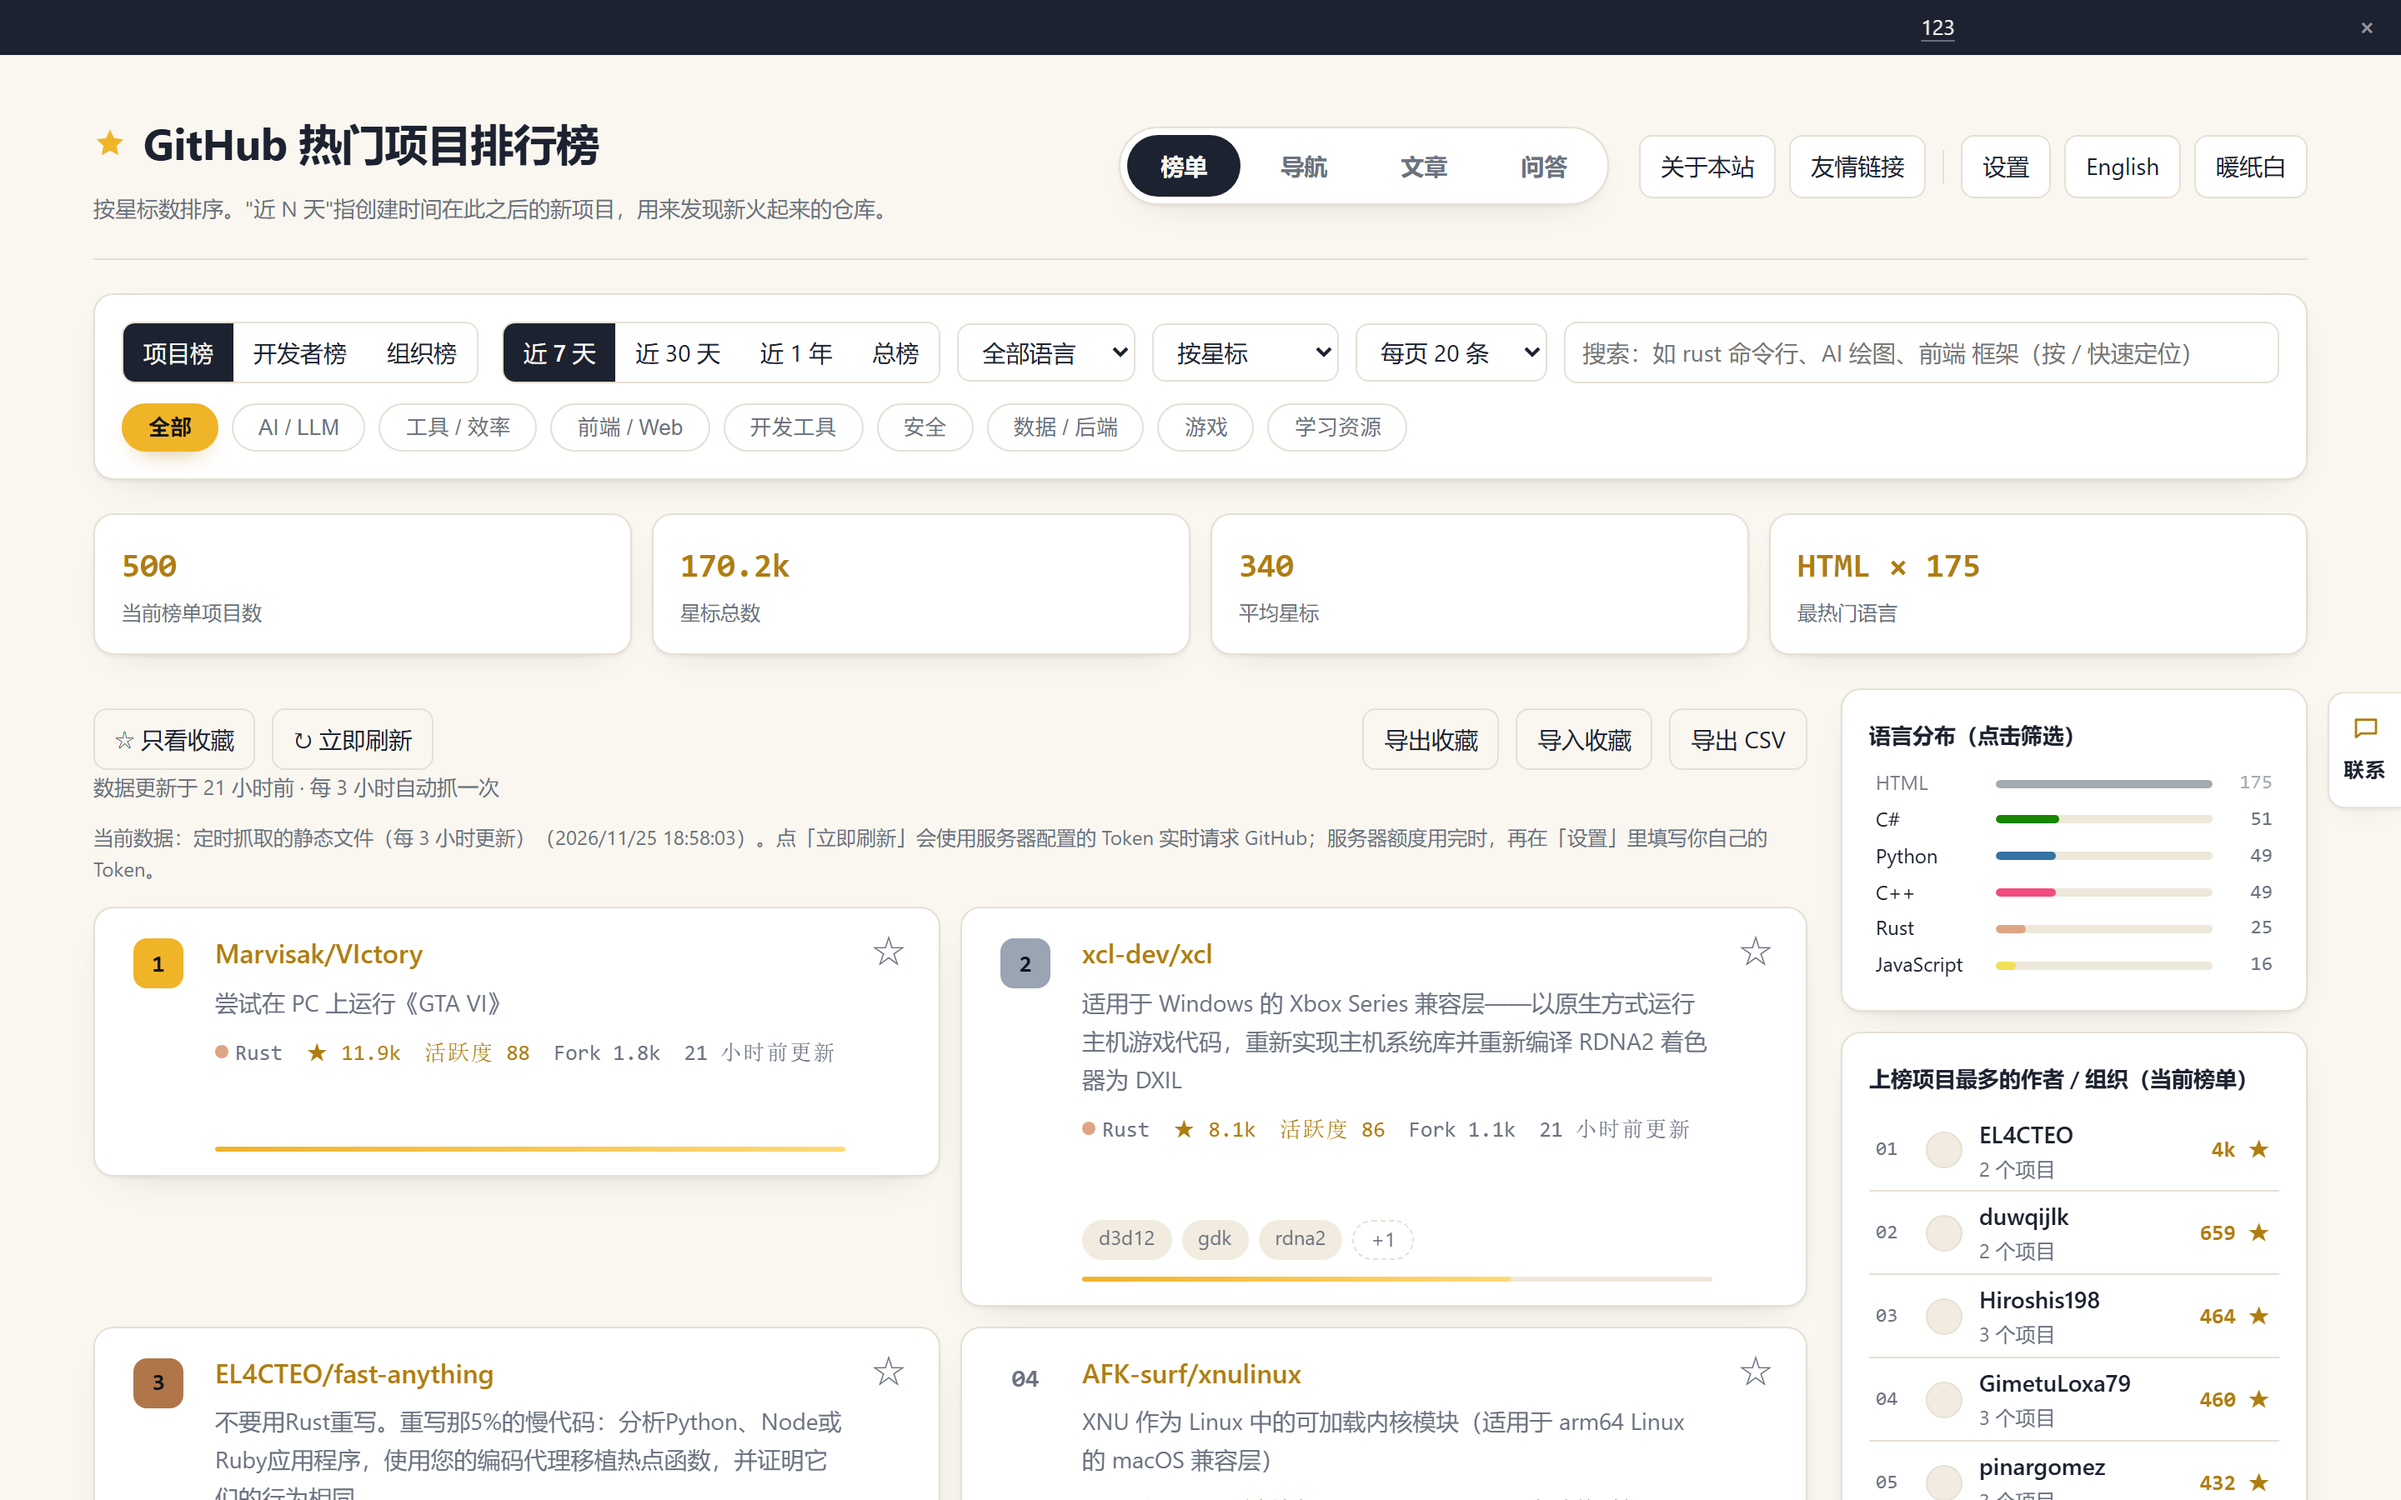
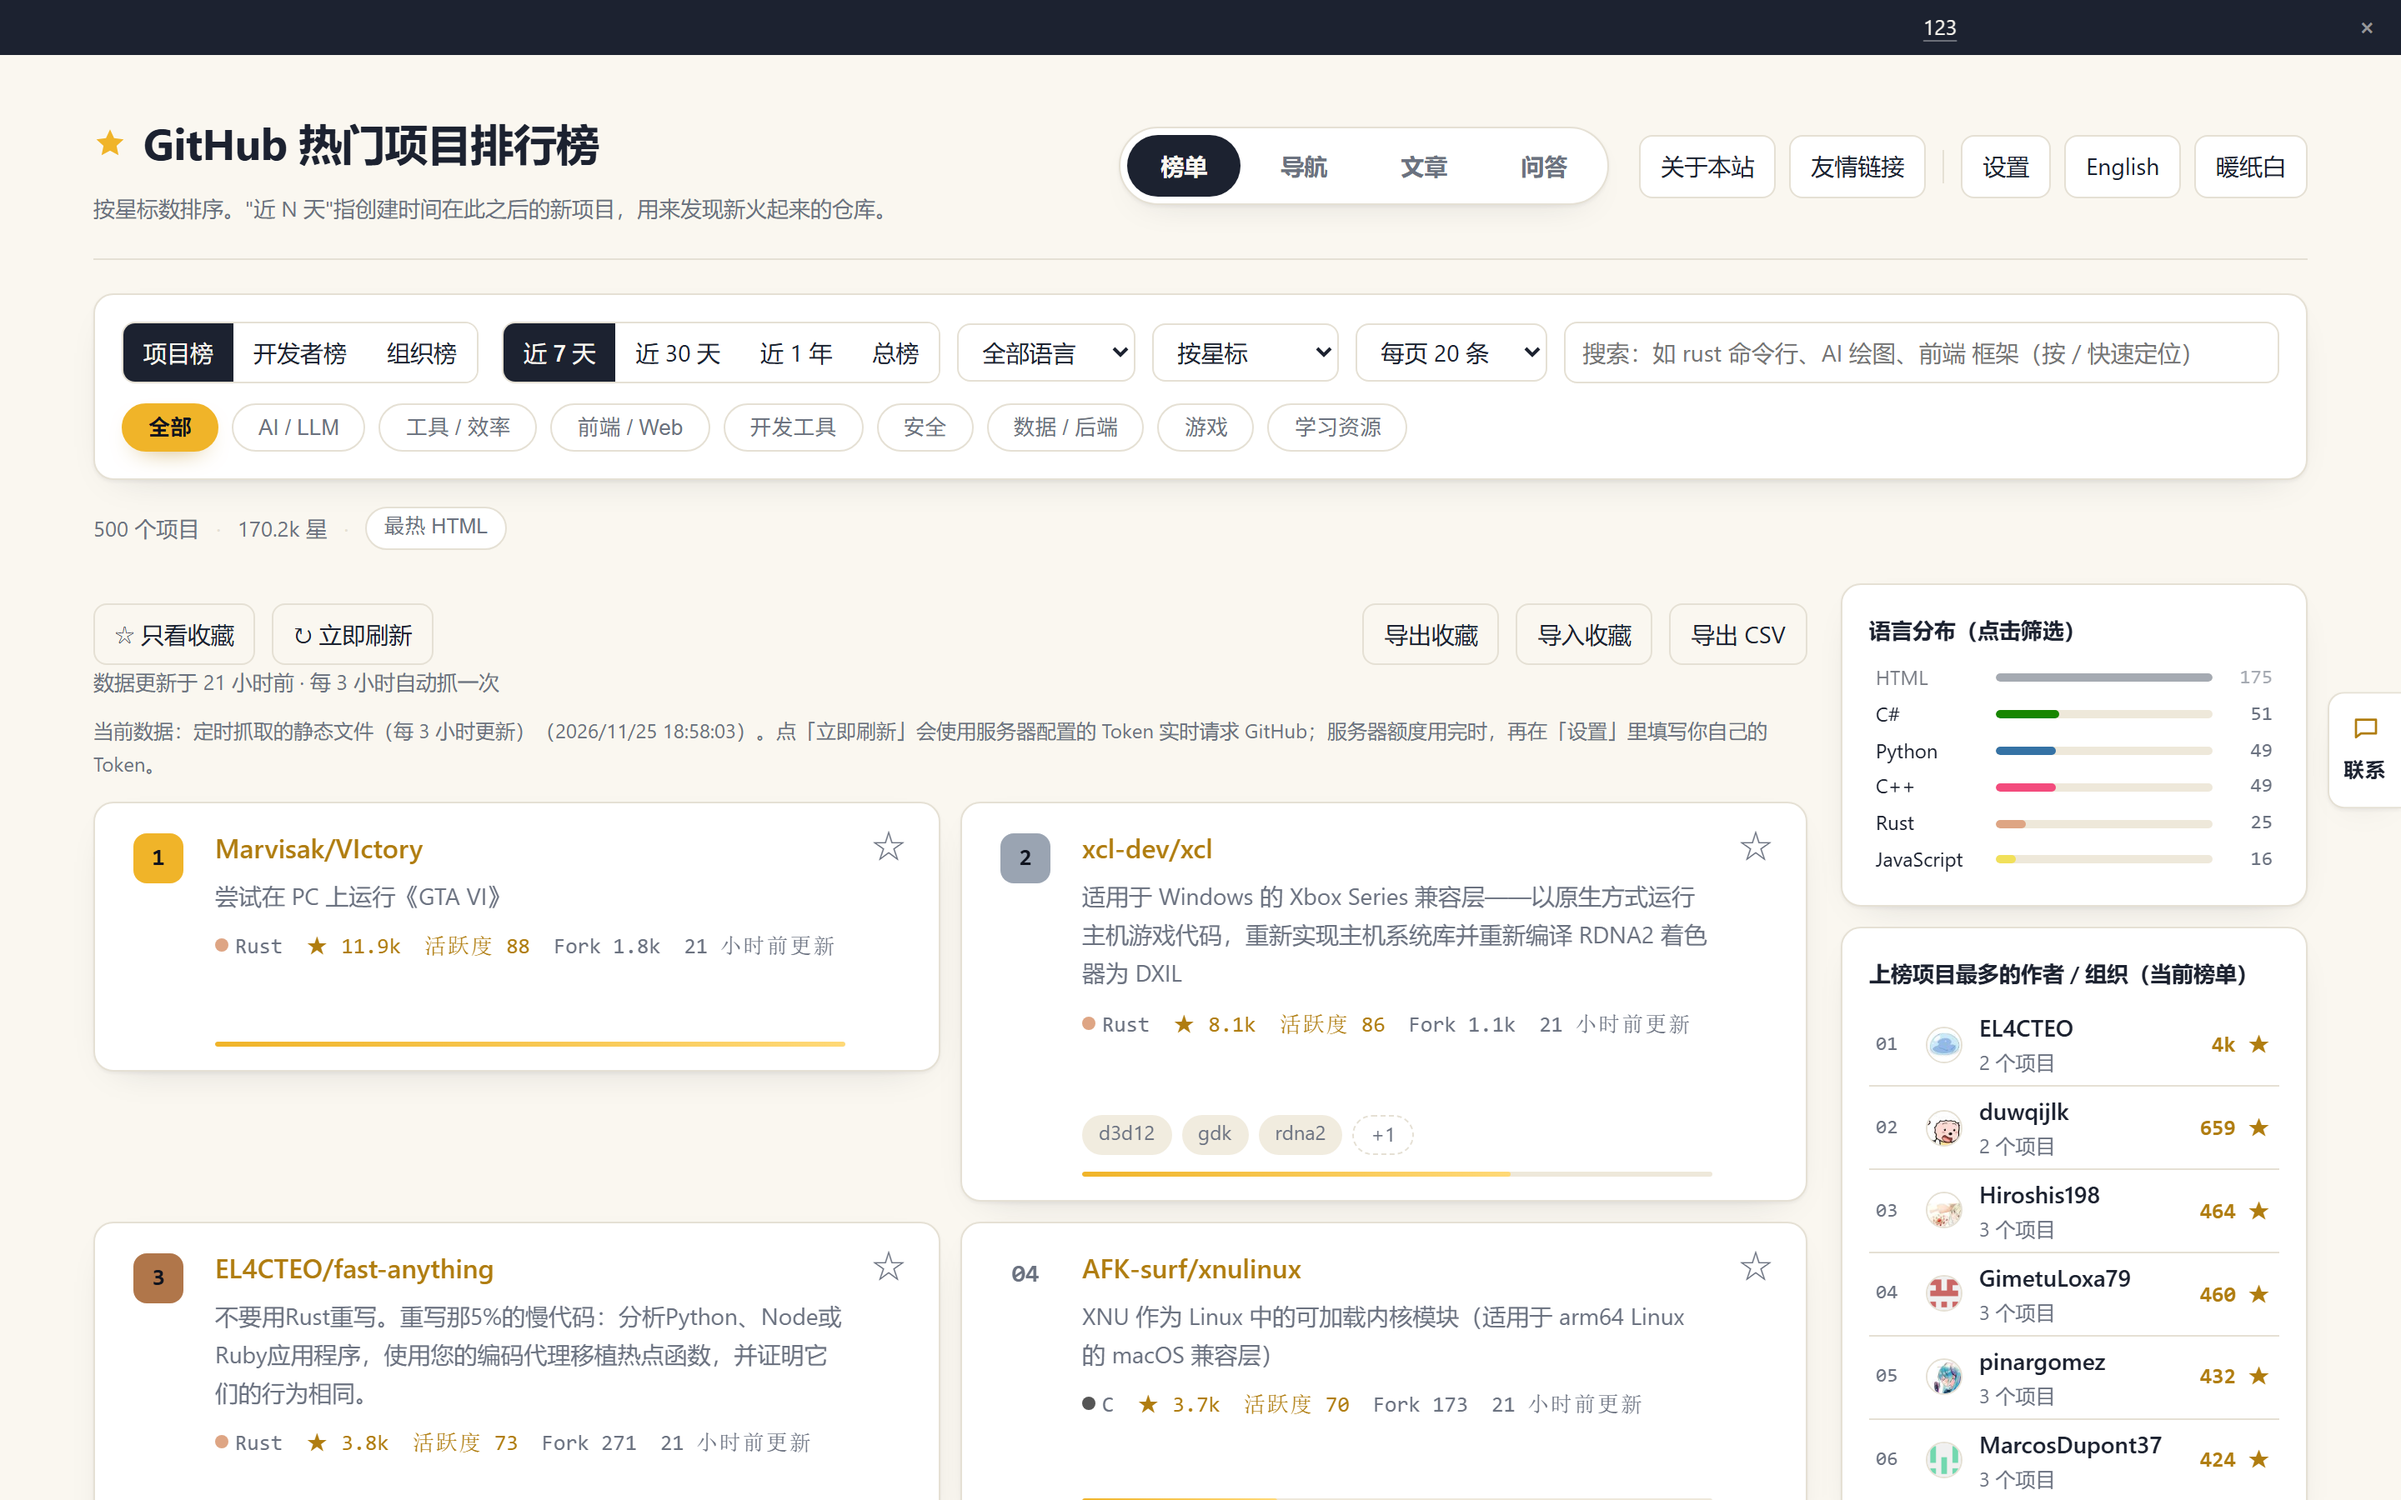
feat: 四张统计卡改一行摘要（手机省 160px）+ 最热语言可点击筛选; 新增 check-stats-slim 门禁; v166

diff --git a/js/bundle.js b/js/bundle.js
@@ -573,13 +573,26 @@ function renderStats(list) {
   list.forEach(r => { if (r.lang) langCount[r.lang] = (langCount[r.lang] || 0) + 1; });
   const topLang = Object.entries(langCount).sort((a, b) => b[1] - a[1])[0];
   box.hidden = false;
-  const mk = (v, label) => { const d = el('div', 'stat'); d.append(el('b', null, v), el('span', null, label)); return d; };
-  box.replaceChildren(
-    mk(String(list.length), '当前榜单项目数'),
-    mk(fmt(totalStars), '星标总数'),
-    mk(fmt(Math.round(totalStars / list.length)), '平均星标'),
-    mk(topLang ? topLang[0] + ' × ' + topLang[1] : '—', '最热门语言')
-  );
+  box.className = 'stats slim';
+  const parts = [el('span', null, list.length + ' 个项目'), el('span', 'statsep', '·'), el('span', null, fmt(totalStars) + ' 星')];
+  if (topLang) {
+    parts.push(el('span', 'statsep', '·'));
+    const btn = el('button', 'stat-lang', '最热 ' + topLang[0]);
+    btn.type = 'button';
+    btn.title = '只看 ' + topLang[0] + '（共 ' + topLang[1] + ' 个）';
+    btn.onclick = () => {
+      const sel = $('lang');
+      if (!sel) return;
+      if (!Array.prototype.some.call(sel.options, (o) => o.value === topLang[0])) {
+        sel.append(new Option(topLang[0], topLang[0]));
+      }
+      sel.value = topLang[0];
+      sel.dispatchEvent(new Event('change', { bubbles: true }));
+      window.scrollTo({ top: 0, behavior: 'smooth' });
+    };
+    parts.push(btn);
+  }
+  box.replaceChildren.apply(box, parts);
 }
 
 function renderDist(list) {

diff --git a/index.html b/index.html
@@ -143,6 +143,11 @@ select:focus,input:focus,button:focus-visible{outline:2px solid var(--gold);outl
 .stat{background:var(--card);border:1px solid var(--border);border-radius:var(--radius);padding:14px 16px;box-shadow:var(--shadow)}
 .stat b{display:block;font-size:20px;font-family:Consolas,ui-monospace,monospace;color:var(--accent)}
 .stat span{font-size:12px;color:var(--muted);display:block;margin-top:2px}
+.stats.slim{display:flex;flex-wrap:wrap;align-items:center;gap:6px 10px;margin-top:16px;padding:0;background:none;border:0;box-shadow:none;font-size:13px;color:var(--muted);line-height:1.8}
+.stats.slim .statsep{color:var(--border)}
+.stat-lang{border:1px solid var(--border);background:var(--card);color:var(--muted);border-radius:999px;padding:3px 10px;font-size:12.5px;line-height:1.4;cursor:pointer;transition:border-color .15s,color .15s}
+.stat-lang:hover{border-color:var(--accent);color:var(--accent)}
+.stat-lang:focus-visible{outline:2px solid var(--accent);outline-offset:2px}
 #status{margin:var(--gap) 0 0;color:var(--muted)}
 #status.error{color:var(--danger)}
 #list{list-style:none;padding:0;margin:var(--gap) 0 0;display:flex;flex-direction:column;gap:var(--gap)}

diff --git a/sw.js b/sw.js
@@ -1,5 +1,5 @@
 /* Service Worker：缓存页面外壳（HTML/JS/图标），让离线也能打开；GitHub API 不缓存，由页面自己的 localStorage 管理 */
-const CACHE = 'ghrank-shell-v165';
+const CACHE = 'ghrank-shell-v166';
 const SHELL = ['./', 'index.html', 'js/bundle.js', 'js/md.js', 'manifest.json', 'icon.svg'];
 // 只预缓存 meta（约 2KB）。榜单数据按 range 分文件、由页面按需加载，不再在安装时白下几�?KB
 const DATA = 'data/repos-meta.js';

diff --git a/worker.js b/worker.js
@@ -1630,7 +1630,7 @@ async function injectFaqLd(env, html) {
 
 // 静态资源版本：HTML 里的 /js/*.js 都会被加上 ?v=<这里>，于是能给浏览器一年 immutable；
 // 改了前端就把它 +1（不然用户浏览器会抱着一周的旧 bundle，界面上去点了没反应）
-const ASSET_V = 'v165';
+const ASSET_V = 'v166';
 
 function emptyNav() {
   return { updatedAt: '', groups: [] };

diff --git a/docs/优化建议.md b/docs/优化建议.md
@@ -4560,3 +4560,72 @@ if (pageMark === 'nav' || pageMark === 'articles') sp.set('page', pageMark);
 - 语义没丢：按钮 + `aria-expanded` + `aria-controls`，键盘可 Tab、可回车。
 
 门禁因此多两条桌面断言：三个下拉必须在**同一行**（`|y-y0| ≤ 2`），且都与搜索框**不重叠**。第一版只断言了「可见 + 宽度正常」，所以才让竖排漏到线上截图里 —— 教训是**桌面端的布局断言必须包含相对位置**，光看「有没有」不够。
+
+## 第 135 批：四张统计大卡 → 一行摘要（手机上省 160px）
+
+日期：2026-11-26　版本：v166
+
+### 问题
+
+榜单上方原本是四张统计卡（当前榜单项目数 / 星标总数 / 平均星标 / 最热门语言）。手机 390 屏上它们排成 2×2，占 **182px**；桌面也占 85px。四张卡里「平均星标」对读者没意义，「项目数 / 星标总数」本来一句话就能说完 —— 这是典型的「为了显得有数据而摆数据」。
+
+实测（CDP，`scripts/tmp-measure-stats.mjs`）：
+
+| 视口 | 统计区高度 | 第一条榜单 y |
+| --- | --- | --- |
+| 390×844 改前 | 182px（2×2 卡） | 961 |
+| 390×844 改后 | **26px（一行）** | **801** |
+| 1440×900 改前 | 85px（1×4 卡） | 544 |
+| 1440×900 改后 | **26px** | **481** |
+
+### 改法
+
+`js/bundle.js` 的 `renderStats()` 整段换掉：
+
+```js
+box.className = 'stats slim';
+const parts = [el('span', null, list.length + ' 个项目'), el('span', 'statsep', '·'), el('span', null, fmt(totalStars) + ' 星')];
+if (topLang) {
+  parts.push(el('span', 'statsep', '·'));
+  const btn = el('button', 'stat-lang', '最热 ' + topLang[0]);
+  btn.title = '只看 ' + topLang[0] + '（共 ' + topLang[1] + ' 个）';
+  btn.onclick = () => {
+    const sel = $('lang');
+    if (![...sel.options].some((o) => o.value === topLang[0])) sel.append(new Option(topLang[0], topLang[0]));
+    sel.value = topLang[0];
+    sel.dispatchEvent(new Event('change', { bubbles: true }));
+    window.scrollTo({ top: 0, behavior: 'smooth' });
+  };
+  parts.push(btn);
+}
+```
+
+CSS（`index.html`）：`.stats.slim{display:flex;flex-wrap:wrap;align-items:center;gap:6px 10px;margin-top:16px;padding:0;background:none;border:0;box-shadow:none;font-size:13px;color:var(--muted);line-height:1.8}` + `.stat-lang` 胶囊（hover 描边主色、焦点环）。
+
+三点设计取舍：
+
+1. **保留「最热语言」但做成可点** —— 把一个「展示性数据」变成「筛选入口」，比印一个数字有用。
+2. **不保留「平均星标」** —— 它对读者没有决策价值（一个榜单里平均星标高低说明不了什么）。
+3. **`.stats.slim` 覆盖 `.stats` 的 grid**，因此手机媒体查询里那条 `.stats{grid-template-columns:repeat(2,1fr)}` 不用动。
+
+### 踩到的真 bug：`HTML` 不在语言下拉里
+
+第一版点「最热 HTML」**什么都不发生**。原因：语言下拉的选项来自硬编码白名单 `LANGS`（JavaScript / TypeScript / Python / Go / Rust / Java / C++ / C / C# / PHP / Ruby / Swift / Kotlin / Dart / Shell），而当前榜单最热的语言是 **HTML**（175 个）—— 白名单里没有，`sel.value = 'HTML'` 被浏览器拒绝（值不匹配任何 option）。
+
+修法：点之前先看有没有这个 option，没有就 `sel.append(new Option(lang, lang))` 再选。这样任何语言（包括 CSS、Jupyter Notebook、甚至「无语言」）都能一键筛。
+
+### 门禁
+
+`node scripts/check-stats-slim.mjs`（新，CDP，**13 项**）：
+
+- 390：样式类名 `stats slim`、高度 ≤34（实测 26）、不再有 `.stat` 卡、摘要含「N 个项目 / 星 / 最热 X」、第一名榜单 y ≤850（实测 801）、不横向溢出；
+- 点「最热语言」后 `#lang` 值等于该语言、条目数从 500 变 175（**证明真的过滤了**，不是只改了下拉框）；
+- 1440：高度 ≤34、所有元素同一行（±2px 基线差）、榜单 y ≤520。
+
+线上新增 2 条断言（`.stats.slim` 与 `.stat-lang` 存在、bundle 里有动态补 option 的代码）。
+
+### 坑
+
+1. **`<select>` 赋一个不存在的 value 会静默失败**：不报错、不抛异常，`value` 停在原选项。给用户做"点一下筛这个"的快捷入口时，必须先确认 option 存在。
+2. **同一行视觉 ≠ 同一基线**：`span` 与 `button` 的 `line-height` / 边框导致 y 差 1px，断言要用「极差 ≤2」而不是「全部相等」。
+3. 统计卡删了也要留 `box.hidden = true` 的空列表分支，否则筛到 0 条时会出现「0 个项目 · — 星」的怪摘要。
